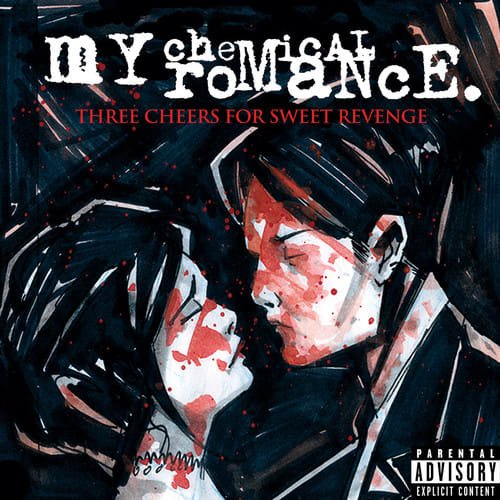
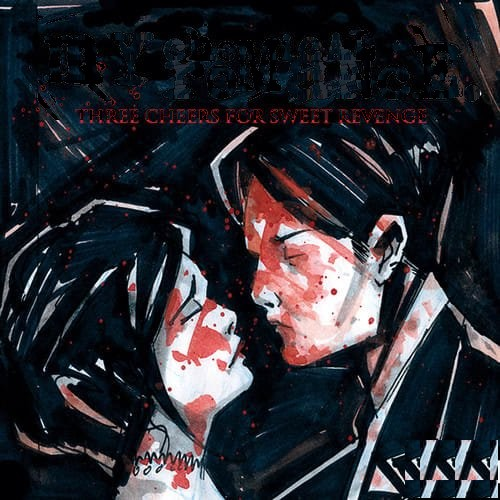
feat: portada limpia de MCR sin texto y discoteca de albumes iconicos (Motorama, Depeche Mode, Joy Division, The Cure, Molchat Doma)

Changed region(s): [[0.06, 0.03, 0.96, 0.24], [0.81, 0.87, 1.0, 1.0]]

diff --git a/aniversario/index.html b/aniversario/index.html
@@ -202,6 +202,95 @@
             </div>
           </div>
 
+          <!-- Discoteca de Nuestro Amor: Álbumes Icónicos (Mismos Tonos MCR: Negro, Rojo y Blanco) -->
+          <div class="band-discography-section">
+            <div class="disco-header">
+              <span class="disco-badge">VINILOS &amp; CASSETTES • NUESTRA BANDA SONORA</span>
+              <h4 class="disco-title">DISCOS QUE VIBRAN CON NUESTRO AMOR EN LA OROYA</h4>
+              <p class="disco-subtitle">Synth Pop • New Wave • Post-Punk • Dark Wave • Indie Rock</p>
+            </div>
+
+            <div class="album-sleeves-grid">
+              <!-- 1. Motorama - Poverty (Foto subida por el usuario) -->
+              <div class="album-sleeve-card" data-album="Motorama • Poverty" title="Toca para escuchar un riff y sumar +10 días!">
+                <div class="sleeve-img-wrap">
+                  <img src="img/motorama-poverty.jpg" alt="Motorama - Poverty">
+                  <span class="vinyl-peek"></span>
+                </div>
+                <div class="sleeve-meta">
+                  <span class="sleeve-band">MOTORAMA</span>
+                  <span class="sleeve-title">Poverty</span>
+                  <span class="sleeve-genre">Post-Punk</span>
+                </div>
+              </div>
+
+              <!-- 2. Depeche Mode - Violator -->
+              <div class="album-sleeve-card" data-album="Depeche Mode • Violator" title="Toca para escuchar un riff y sumar +10 días!">
+                <div class="sleeve-img-wrap">
+                  <img src="img/album-depeche-mode.jpg" alt="Depeche Mode - Violator">
+                  <span class="vinyl-peek"></span>
+                </div>
+                <div class="sleeve-meta">
+                  <span class="sleeve-band">DEPECHE MODE</span>
+                  <span class="sleeve-title">Violator</span>
+                  <span class="sleeve-genre">Synth Pop</span>
+                </div>
+              </div>
+
+              <!-- 3. Joy Division - Unknown Pleasures -->
+              <div class="album-sleeve-card" data-album="Joy Division • Unknown Pleasures" title="Toca para escuchar un riff y sumar +10 días!">
+                <div class="sleeve-img-wrap">
+                  <img src="img/album-joy-division.jpg" alt="Joy Division - Unknown Pleasures">
+                  <span class="vinyl-peek"></span>
+                </div>
+                <div class="sleeve-meta">
+                  <span class="sleeve-band">JOY DIVISION</span>
+                  <span class="sleeve-title">Unknown Pleasures</span>
+                  <span class="sleeve-genre">Manchester</span>
+                </div>
+              </div>
+
+              <!-- 4. The Cure - Disintegration -->
+              <div class="album-sleeve-card" data-album="The Cure • Disintegration" title="Toca para escuchar un riff y sumar +10 días!">
+                <div class="sleeve-img-wrap">
+                  <img src="img/album-the-cure.jpg" alt="The Cure - Disintegration">
+                  <span class="vinyl-peek"></span>
+                </div>
+                <div class="sleeve-meta">
+                  <span class="sleeve-band">THE CURE</span>
+                  <span class="sleeve-title">Disintegration</span>
+                  <span class="sleeve-genre">Dark Wave</span>
+                </div>
+              </div>
+
+              <!-- 5. Molchat Doma - Etazhi -->
+              <div class="album-sleeve-card" data-album="Molchat Doma • Etazhi" title="Toca para escuchar un riff y sumar +10 días!">
+                <div class="sleeve-img-wrap">
+                  <img src="img/album-molchat-doma.jpg" alt="Molchat Doma - Etazhi">
+                  <span class="vinyl-peek"></span>
+                </div>
+                <div class="sleeve-meta">
+                  <span class="sleeve-band">MOLCHAT DOMA</span>
+                  <span class="sleeve-title">Etazhi</span>
+                  <span class="sleeve-genre">Coldwave</span>
+                </div>
+              </div>
+
+              <!-- 6. My Chemical Romance - Three Cheers for Sweet Revenge (Solo los amantes mirándose) -->
+              <div class="album-sleeve-card" data-album="M.C.R. • Demolition Lovers" title="Toca para escuchar un riff y sumar +10 días!">
+                <div class="sleeve-img-wrap">
+                  <img src="img/mcr-cover.jpg" alt="My Chemical Romance - Demolition Lovers">
+                  <span class="vinyl-peek"></span>
+                </div>
+                <div class="sleeve-meta">
+                  <span class="sleeve-band">M.C.R.</span>
+                  <span class="sleeve-title">Sweet Revenge</span>
+                  <span class="sleeve-genre">Punk Rock</span>
+                </div>
+              </div>
+            </div>
+          </div>
+
           <!-- Marco Doble de Fotos: Boda Oficial y Alma Punk -->
           <div class="photos-duo-frame">
             <div class="polaroid-item polaroid-wedding">

diff --git a/aniversario/style.css b/aniversario/style.css
@@ -898,6 +898,158 @@ body::after {
   margin-top: 10px;
 }
 
+/* ==========================================================================
+   DISCOTECA DE NUESTRO AMOR: ÁLBUMES ICÓNICOS (TONOS MCR)
+   ========================================================================== */
+.band-discography-section {
+  background: rgba(14, 14, 14, 0.7);
+  border: 1px solid rgba(229, 57, 53, 0.4);
+  border-radius: 14px;
+  padding: 20px 18px;
+  margin: 28px 0;
+  box-shadow: 0 8px 25px rgba(0, 0, 0, 0.7), inset 0 0 15px rgba(183, 28, 28, 0.1);
+}
+
+.disco-header {
+  text-align: center;
+  margin-bottom: 18px;
+}
+
+.disco-badge {
+  font-family: var(--font-stencil);
+  font-size: 0.74rem;
+  font-weight: 700;
+  letter-spacing: 2px;
+  color: var(--color-bright-red);
+  background: rgba(183, 28, 28, 0.15);
+  border: 1px dashed var(--color-crimson);
+  padding: 3px 12px;
+  border-radius: 12px;
+  display: inline-block;
+  margin-bottom: 8px;
+}
+
+.disco-title {
+  font-family: var(--font-gothic);
+  font-size: 1.15rem;
+  font-weight: 900;
+  letter-spacing: 1.5px;
+  color: #FFFFFF;
+  margin-bottom: 4px;
+  text-shadow: 0 0 10px rgba(229, 57, 53, 0.5);
+}
+
+.disco-subtitle {
+  font-family: var(--font-punk);
+  font-size: 0.82rem;
+  color: var(--color-silver-metal);
+  letter-spacing: 0.5px;
+}
+
+.album-sleeves-grid {
+  display: grid;
+  grid-template-columns: repeat(6, 1fr);
+  gap: 12px;
+}
+
+.album-sleeve-card {
+  background: #0E0E0E;
+  border: 1px solid rgba(255, 255, 255, 0.12);
+  border-radius: 8px;
+  padding: 8px 8px 10px 8px;
+  cursor: pointer;
+  display: flex;
+  flex-direction: column;
+  align-items: center;
+  transition: transform 0.25s cubic-bezier(0.175, 0.885, 0.32, 1.275), border-color 0.25s, box-shadow 0.25s;
+  position: relative;
+}
+
+.album-sleeve-card:hover {
+  transform: translateY(-6px) scale(1.05);
+  border-color: var(--color-bright-red);
+  box-shadow: 0 10px 22px rgba(183, 28, 28, 0.5);
+}
+
+.album-sleeve-card:active {
+  transform: scale(0.96);
+}
+
+.sleeve-img-wrap {
+  width: 100%;
+  aspect-ratio: 1 / 1;
+  border-radius: 4px;
+  overflow: hidden;
+  background: #000;
+  border: 1px solid rgba(229, 57, 53, 0.3);
+  margin-bottom: 8px;
+  box-shadow: 0 4px 10px rgba(0, 0, 0, 0.6);
+  position: relative;
+}
+
+.sleeve-img-wrap img {
+  width: 100%;
+  height: 100%;
+  object-fit: cover;
+  display: block;
+  transition: transform 0.3s ease;
+}
+
+.album-sleeve-card:hover .sleeve-img-wrap img {
+  transform: scale(1.08);
+}
+
+.sleeve-meta {
+  display: flex;
+  flex-direction: column;
+  align-items: center;
+  width: 100%;
+  text-align: center;
+}
+
+.sleeve-band {
+  font-family: var(--font-stencil);
+  font-size: 0.72rem;
+  font-weight: 700;
+  color: #FFFFFF;
+  letter-spacing: 0.5px;
+  white-space: nowrap;
+  overflow: hidden;
+  text-overflow: ellipsis;
+  width: 100%;
+}
+
+.sleeve-title {
+  font-family: var(--font-letter);
+  font-size: 0.68rem;
+  color: var(--color-silver-metal);
+  white-space: nowrap;
+  overflow: hidden;
+  text-overflow: ellipsis;
+  width: 100%;
+  margin: 1px 0;
+}
+
+.sleeve-genre {
+  font-family: var(--font-punk);
+  font-size: 0.62rem;
+  color: var(--color-bright-red);
+  letter-spacing: 0.5px;
+}
+
+@media (max-width: 900px) {
+  .album-sleeves-grid {
+    grid-template-columns: repeat(3, 1fr);
+    gap: 12px;
+  }
+}
+
+@media (max-width: 500px) {
+  .album-sleeves-grid {
+    grid-template-columns: repeat(2, 1fr);
+  }
+}
+
 /* Marco Doble de Fotos (Boda & Punk) */
 .photos-duo-frame {
   display: flex;

diff --git a/aniversario/script.js b/aniversario/script.js
@@ -592,6 +592,23 @@ document.addEventListener('DOMContentLoaded', () => {
     burstParticles(rect.left + rect.width / 2, rect.top + rect.height / 2, 20, 'rose');
   });
 
+  // Interacción con los álbumes icónicos de la discoteca
+  document.querySelectorAll('.album-sleeve-card').forEach(card => {
+    card.addEventListener('click', (e) => {
+      e.stopPropagation();
+      playPickSound();
+      addDays(10);
+      const albumName = card.getAttribute('data-album') || 'Rock Classic';
+      const rect = card.getBoundingClientRect();
+      burstParticles(rect.left + rect.width / 2, rect.top + rect.height / 2, 14, 'rose');
+      showFloatingFeedback(`+10 Días 🖤 ${albumName}`, rect.left + rect.width / 2, rect.top);
+      card.style.transform = 'scale(1.15) rotate(4deg)';
+      setTimeout(() => {
+        card.style.transform = '';
+      }, 250);
+    });
+  });
+
   // Botón "Lluvia de Rosas y Púas"
   btnPunkRain.addEventListener('click', () => {
     playPickSound();
